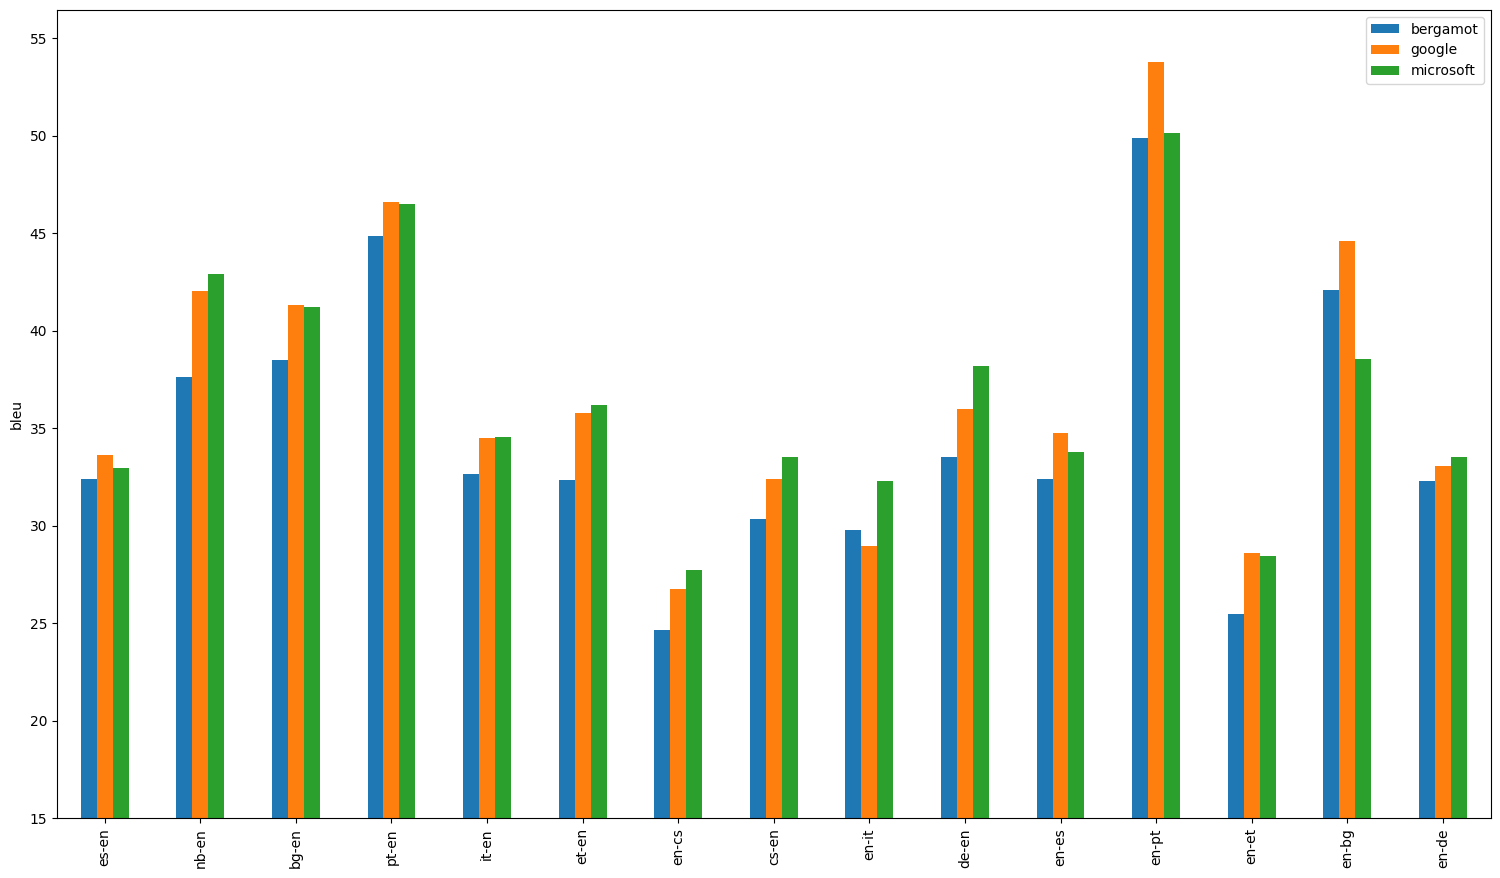
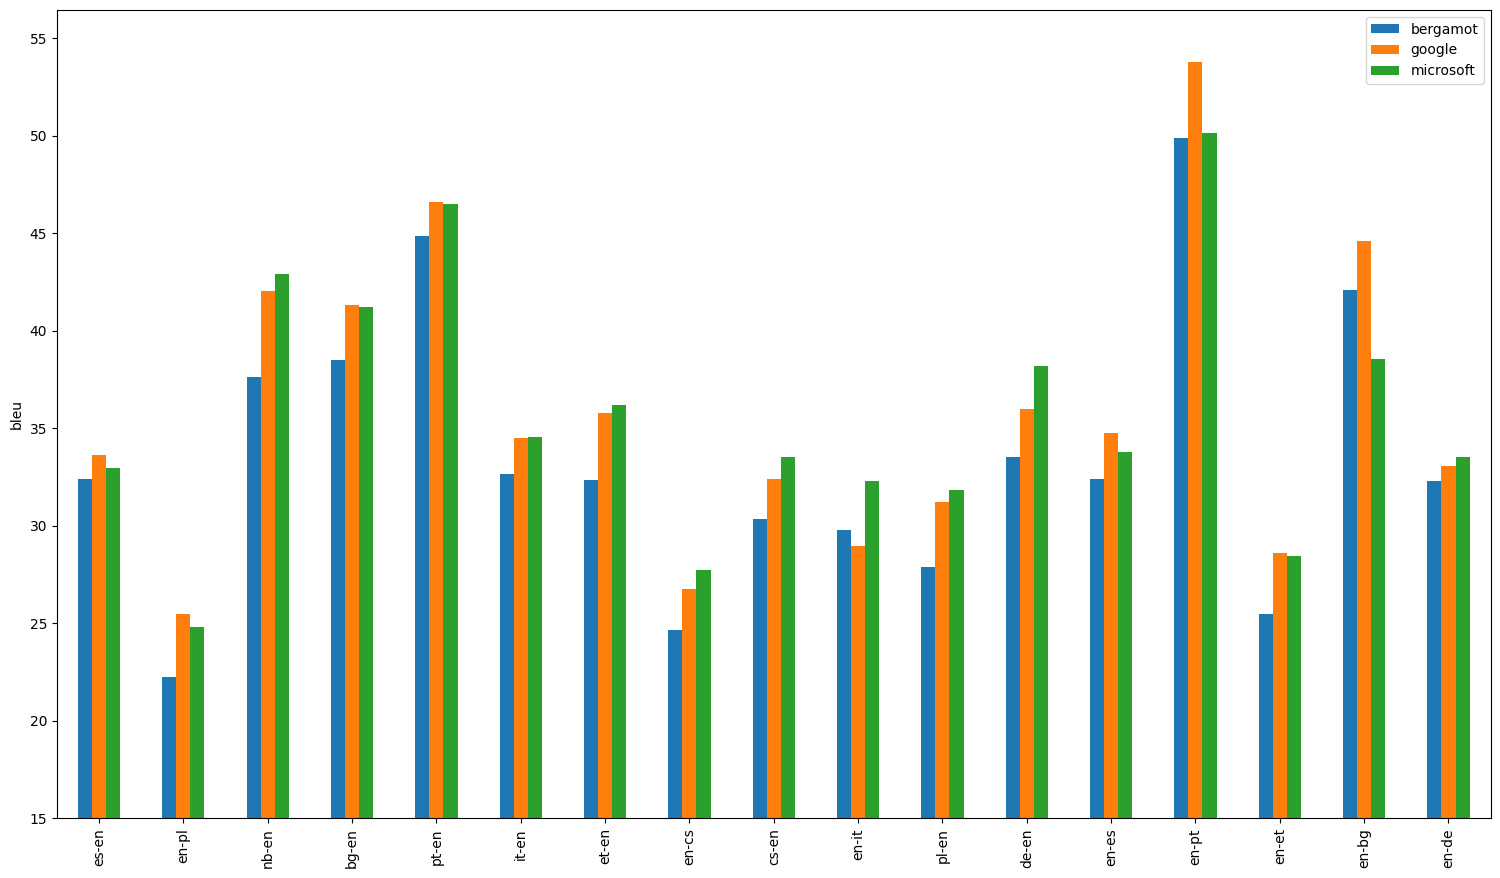
Add Polish models (#45)
* Add Polish models

* Fake fix readme

* Update evaluation results [skip ci]

* Update model registry [skip ci]

diff --git a/evaluation/prod/results.md b/evaluation/prod/results.md
@@ -57,11 +57,11 @@ Both absolute and relative differences in BLEU scores between Bergamot and other
 
 ## avg
 
-| Translator/Dataset | es-en | nb-en | bg-en | pt-en | it-en | et-en | en-cs | cs-en | en-it | de-en | en-es | en-pt | en-et | en-bg | en-de |
-| --- | --- | --- | --- | --- | --- | --- | --- | --- | --- | --- | --- | --- | --- | --- | --- |
-| bergamot | 32.38 | 37.60 | 38.50 | 44.87 | 32.67 | 32.37 | 24.65 | 30.34 | 29.77 | 33.51 | 32.41 | 49.85 | 25.50 | 42.10 | 32.27 |
-| google | 33.64 (+1.27, +3.91%) | 42.05 (+4.45, +11.84%) | 41.30 (+2.80, +7.27%) | 46.60 (+1.73, +3.86%) | 34.50 (+1.83, +5.59%) | 35.80 (+3.43, +10.61%) | 26.73 (+2.09, +8.47%) | 32.40 (+2.06, +6.80%) | 28.97 (-0.80, -2.69%) | 35.98 (+2.48, +7.39%) | 34.74 (+2.32, +7.17%) | 53.75 (+3.90, +7.82%) | 28.60 (+3.10, +12.16%) | 44.60 (+2.50, +5.94%) | 33.05 (+0.77, +2.40%) |
-| microsoft | 32.93 (+0.56, +1.72%) | 42.90 (+5.30, +14.10%) | 41.20 (+2.70, +7.01%) | 46.47 (+1.60, +3.57%) | 34.55 (+1.88, +5.74%) | 36.17 (+3.80, +11.74%) | 27.75 (+3.11, +12.60%) | 33.53 (+3.19, +10.53%) | 32.30 (+2.53, +8.51%) | 38.21 (+4.70, +14.03%) | 33.76 (+1.35, +4.17%) | 50.15 (+0.30, +0.60%) | 28.47 (+2.97, +11.63%) | 38.55 (-3.55, -8.43%) | 33.54 (+1.27, +3.93%) |
+| Translator/Dataset | es-en | en-pl | nb-en | bg-en | pt-en | it-en | et-en | en-cs | cs-en | en-it | pl-en | de-en | en-es | en-pt | en-et | en-bg | en-de |
+| --- | --- | --- | --- | --- | --- | --- | --- | --- | --- | --- | --- | --- | --- | --- | --- | --- | --- |
+| bergamot | 32.38 | 22.27 | 37.60 | 38.50 | 44.87 | 32.67 | 32.37 | 24.65 | 30.34 | 29.77 | 27.87 | 33.51 | 32.41 | 49.85 | 25.50 | 42.10 | 32.27 |
+| google | 33.64 (+1.27, +3.91%) | 25.50 (+3.23, +14.52%) | 42.05 (+4.45, +11.84%) | 41.30 (+2.80, +7.27%) | 46.60 (+1.73, +3.86%) | 34.50 (+1.83, +5.59%) | 35.80 (+3.43, +10.61%) | 26.73 (+2.09, +8.47%) | 32.40 (+2.06, +6.80%) | 28.97 (-0.80, -2.69%) | 31.23 (+3.37, +12.08%) | 35.98 (+2.48, +7.39%) | 34.74 (+2.32, +7.17%) | 53.75 (+3.90, +7.82%) | 28.60 (+3.10, +12.16%) | 44.60 (+2.50, +5.94%) | 33.05 (+0.77, +2.40%) |
+| microsoft | 32.93 (+0.56, +1.72%) | 24.83 (+2.57, +11.53%) | 42.90 (+5.30, +14.10%) | 41.20 (+2.70, +7.01%) | 46.47 (+1.60, +3.57%) | 34.55 (+1.88, +5.74%) | 36.17 (+3.80, +11.74%) | 27.75 (+3.11, +12.60%) | 33.53 (+3.19, +10.53%) | 32.30 (+2.53, +8.51%) | 31.83 (+3.97, +14.23%) | 38.21 (+4.70, +14.03%) | 33.76 (+1.35, +4.17%) | 50.15 (+0.30, +0.60%) | 28.47 (+2.97, +11.63%) | 38.55 (-3.55, -8.43%) | 33.54 (+1.27, +3.93%) |
 
 ![Results](img/avg.png)
 
@@ -74,6 +74,16 @@ Both absolute and relative differences in BLEU scores between Bergamot and other
 | microsoft | 35.40 (-0.40, -1.12%) | 29.60 (+0.20, +0.68%) | 33.70 (-0.60, -1.75%) | 37.60 (+0.80, +2.17%) | 35.30 (+0.10, +0.28%) | 26.80 (-0.50, -1.83%) | 30.30 (+2.80, +10.18%) | 29.90 (+3.10, +11.57%) | 37.80 (-0.50, -1.31%) |
 
 ![Results](img/es-en.png)
+
+## en-pl
+
+| Translator/Dataset | wmt20 | flores-test | flores-dev |
+| --- | --- | --- | --- |
+| bergamot | 25.10 | 21.00 | 20.70 |
+| google | 27.90 (+2.80, +11.16%) | 24.40 (+3.40, +16.19%) | 24.20 (+3.50, +16.91%) |
+| microsoft | 27.70 (+2.60, +10.36%) | 23.80 (+2.80, +13.33%) | 23.00 (+2.30, +11.11%) |
+
+![Results](img/en-pl.png)
 
 ## nb-en
 
@@ -154,6 +164,16 @@ Both absolute and relative differences in BLEU scores between Bergamot and other
 | microsoft | 31.10 (+1.90, +6.51%) | 32.10 (+2.80, +9.56%) | 33.70 (+2.90, +9.42%) |
 
 ![Results](img/en-it.png)
+
+## pl-en
+
+| Translator/Dataset | wmt20 | flores-dev | flores-test |
+| --- | --- | --- | --- |
+| bergamot | 31.00 | 26.80 | 25.80 |
+| google | 34.10 (+3.10, +10.00%) | 30.00 (+3.20, +11.94%) | 29.60 (+3.80, +14.73%) |
+| microsoft | 35.50 (+4.50, +14.52%) | 30.10 (+3.30, +12.31%) | 29.90 (+4.10, +15.89%) |
+
+![Results](img/pl-en.png)
 
 ## de-en
 

diff --git a/README.md b/README.md
@@ -55,6 +55,7 @@ Create a new release with a version tag `x.y.z` following semantic versioning.
 The models will be automatically uploaded to GCS bucket `gs://bergamot-models-sandbox/x.y.z/`. 
 
 # Currently supported Languages
+
 ## Prod
 - Spanish <-> English
 - Estonian <-> English
@@ -64,11 +65,13 @@ The models will be automatically uploaded to GCS bucket `gs://bergamot-models-sa
 - Norwegian Bokmål -> English
 - Portuguese <-> English
 - Italian <-> English
+- Polish <-> English
+
 ## Dev
 - Russian <-> English
 - Persian (Farsi) <-> English
 - Icelandic -> English
 - Norwegian Nynorsk -> English
+
 ## Upcoming
 -  French <-> English
--  Polish <-> English
